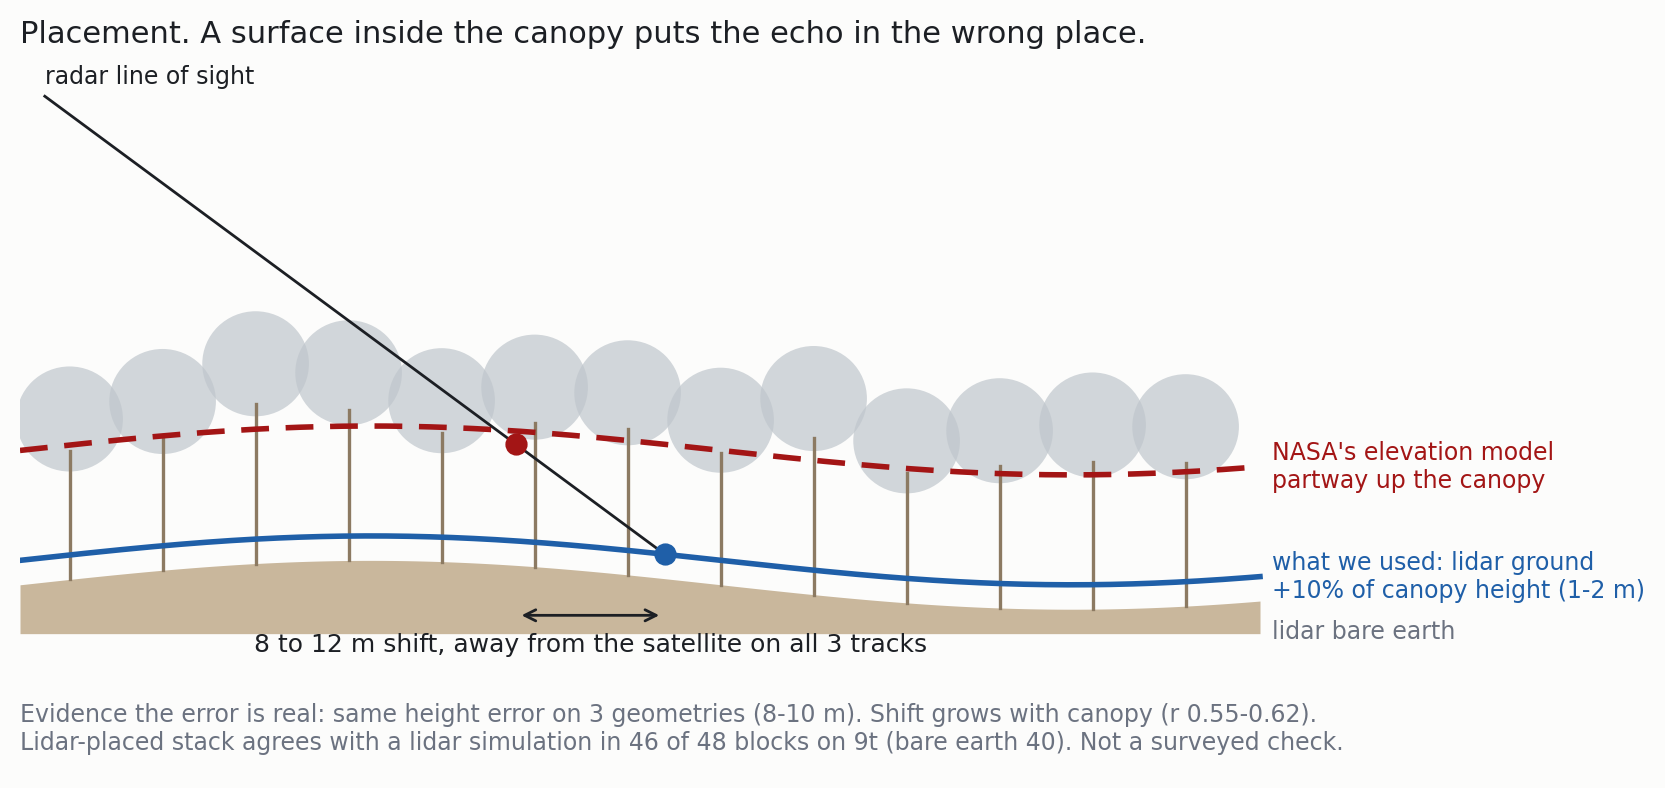
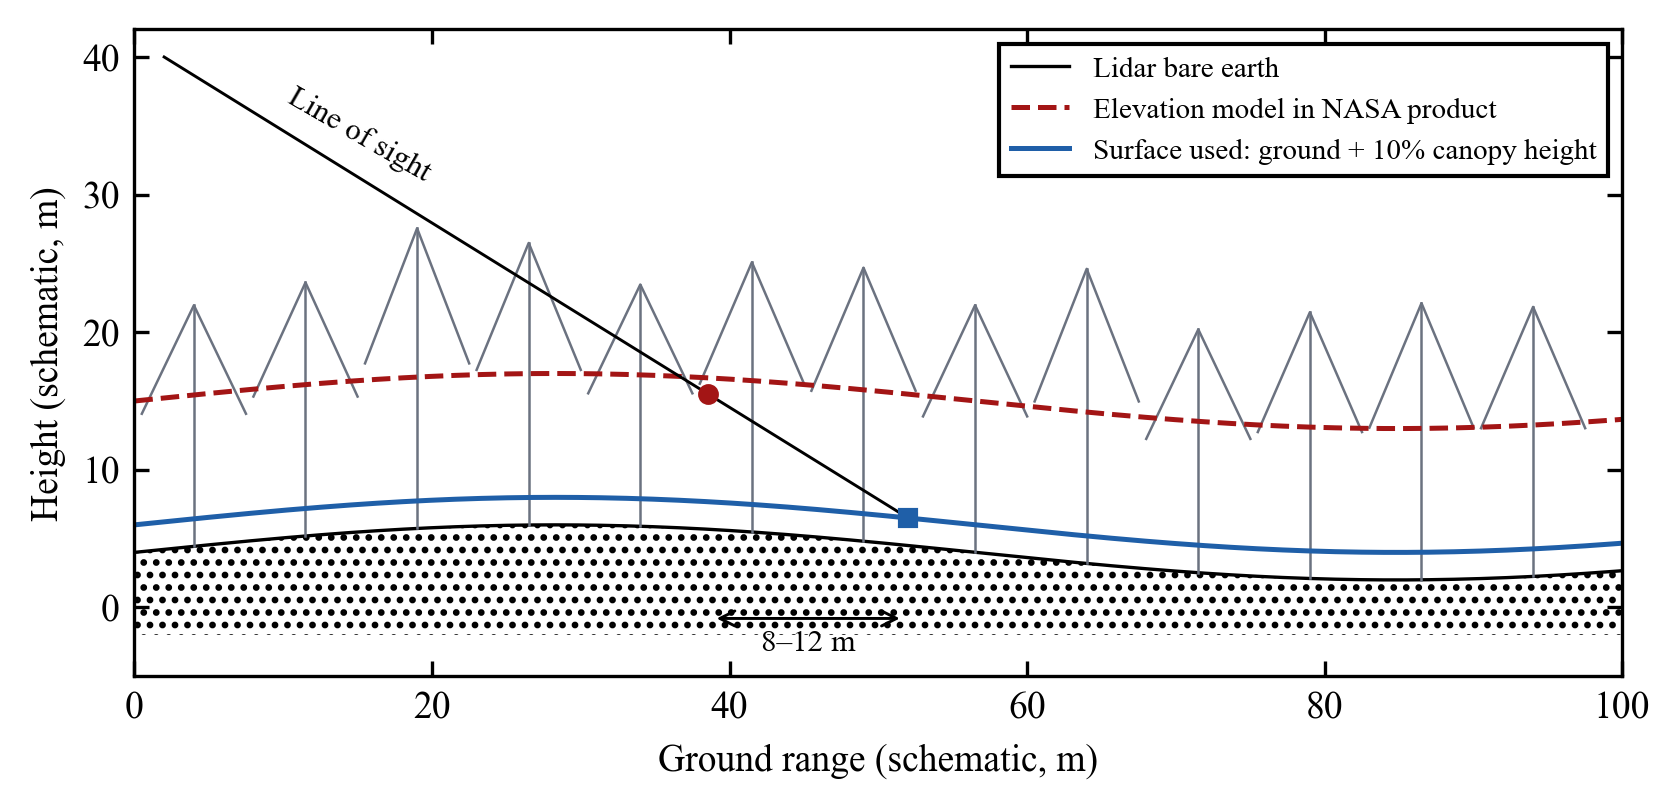
nisar: process figures restyled formal; ladder stages corrected

diff --git a/nisar/code/s7_analysis/_nisar_process_figures.py b/nisar/code/s7_analysis/_nisar_process_figures.py
@@ -1,246 +1,183 @@
-"""Figures for nisar/docs/NISAR_PROCESS_AND_OUTCOMES.md (2026-11-18).
+"""Figures for nisar/docs/NISAR_PROCESS_AND_OUTCOMES.md (2026-11-18; restyled formal the same day).
 
-The style is plain and editorial. No flowchart boxes. Each figure shows one idea from the doc.
-  1 nisar_dates_on_hand.png       every NISAR pass per track and area. Empty passes, the spring gap and beta/provisional
-  2 nisar_excess_number_line.png  how the +0.25 dB pit excess is built, on one dB line
-  3 nisar_ps_selection_plane.png  persistent-scatterer selection (step 1) as a region of steadiness x brightness
-  4 nisar_position_cross_section.png  why NASA's placement was 8-12 m off under canopy, and what we used
-  5 nisar_evidence_ladder.png     how far each marker idea climbed before it stopped
-  6 nisar_band_count_waffle.png   the 346 bands, one square each, by product
+Journal style: serif type, boxed axes, inward ticks, real legends, no titles. Captions live in the doc.
+  1 nisar_dates_on_hand.png          every NISAR pass per track and tile, with beta/provisional and the spring gap
+  2 nisar_excess_number_line.png     pit and control-spot contrast with their rings, fall HH, and the excess
+  3 nisar_ps_selection_plane.png     persistent-scatterer selection region (step 1), steadiness x brightness
+  4 nisar_position_cross_section.png schematic of the canopy placement error and the surface used instead
+  5 nisar_evidence_ladder.png        evidence stage reached by each marker idea
+  6 nisar_band_count_waffle.png      the 346 bands by product and family (now a bar chart; name kept)
 
 Dates come from the window index CSVs. Every other number is quoted from the process doc, sections 2-7.
-Palette: #1F5FA8 blue, #D97706 orange, #A31515 dark red; greys are context only, never a category.
-Validator (dataviz validate_palette.js, light, --pairs all) on the three colours: the repo's lost/found
-palette, worst pair dE 21.1 deutan, 22.6 normal (CLAUDE.md). Grey #6B7280 fails the chroma floor, so it is
-used only for neutral context and always with a direct label.
+Palette: #1F5FA8 blue, #D97706 orange, #A31515 dark red, the repo's lost/found palette. Validator
+(dataviz validate_palette.js, light, --pairs all): worst pair dE 21.1 deutan, 22.6 normal (CLAUDE.md).
+Greys are neutral context only and are always labelled. Every coloured category also differs in marker shape.
 
 Writes nisar/docs/figures/<name>.png
   python nisar/code/s7_analysis/_nisar_process_figures.py
 """
 from pathlib import Path
 
+import matplotlib.dates as mdates
 import matplotlib.pyplot as plt
 import numpy as np
 import pandas as pd
-from matplotlib.patches import Polygon, Rectangle
+from matplotlib.lines import Line2D
+from matplotlib.patches import Patch, Rectangle
 
 ROOT = Path(__file__).resolve().parents[3]
 OUT = ROOT / "nisar" / "docs" / "figures"
 BLUE, ORANGE, RED = "#1F5FA8", "#D97706", "#A31515"
-INK, MUTED, FAINT, PAPER = "#1C1F24", "#6B7280", "#D9DCE0", "#FCFCFB"
-plt.rcParams.update({"font.family": "DejaVu Sans", "font.size": 10, "text.color": INK, "axes.edgecolor": MUTED,
-                     "axes.labelcolor": INK, "xtick.color": MUTED, "ytick.color": MUTED,
-                     "figure.facecolor": PAPER, "axes.facecolor": PAPER, "savefig.facecolor": PAPER})
-
-
-def bare(ax, keep=()):
-    for s in ("top", "right", "left", "bottom"):
-        ax.spines[s].set_visible(s in keep)
+K, GREY, LIGHT = "black", "#6B7280", "#E5E7EB"
+plt.rcParams.update({"font.family": "serif", "font.serif": ["Times New Roman", "DejaVu Serif"], "font.size": 9,
+                     "mathtext.fontset": "stix", "axes.linewidth": 0.8, "axes.edgecolor": K, "axes.labelcolor": K,
+                     "xtick.direction": "in", "ytick.direction": "in", "xtick.top": True, "ytick.right": True,
+                     "xtick.color": K, "ytick.color": K, "legend.frameon": True, "legend.edgecolor": K,
+                     "legend.fancybox": False, "legend.framealpha": 1, "figure.facecolor": "white",
+                     "axes.facecolor": "white", "savefig.facecolor": "white"})
 
 
 def save(fig, name):
     OUT.mkdir(parents=True, exist_ok=True)
-    fig.savefig(OUT / name, dpi=200, bbox_inches="tight")
+    fig.savefig(OUT / name, dpi=300, bbox_inches="tight")
     plt.close(fig)
     print(OUT / name)
 
 
 def fig_dates():
-    rows = []
-    for area in ("9t", "613590"):
-        d = pd.read_csv(ROOT / "nisar" / "derived" / area / "nisar_gslc_5m" / f"nisar_gslc_window_index_{area}_5m.csv")
-        d["area"] = area
-        rows.append(d)
-    d = pd.concat(rows)
+    d = pd.concat([pd.read_csv(ROOT / "nisar" / "derived" / a / "nisar_gslc_5m" / f"nisar_gslc_window_index_{a}_5m.csv")
+                   .assign(area=a) for a in ("9t", "613590")])
     d["t"] = pd.to_datetime(d.date)
-    fig, ax = plt.subplots(figsize=(11, 4.2))
     lanes = [("9t", 26), ("9t", 90), ("9t", 162), ("613590", 26), ("613590", 90), ("613590", 162)]
-    gap0, gap1 = pd.Timestamp("2026-01-21"), pd.Timestamp("2026-06-19")
-    ax.axvspan(gap0, gap1, color=FAINT, alpha=0.45, lw=0, hatch="////", ec="#B8BEC6")
-    ax.text(gap0 + (gap1 - gap0) / 2, 6.35, "spring gap\nrecorded, not yet released\nover our frames",
-            ha="center", va="bottom", fontsize=8.5, color=MUTED)
+    fig, ax = plt.subplots(figsize=(7.2, 3.0))
+    ax.axvspan(pd.Timestamp("2026-01-21"), pd.Timestamp("2026-06-19"), facecolor="none", edgecolor=GREY,
+               hatch="///", lw=0, alpha=0.5)
+    labels = []
     for i, (area, trk) in enumerate(lanes):
         y = len(lanes) - i
-        ax.hlines(y, pd.Timestamp("2025-10-15"), pd.Timestamp("2026-10-31"), color=FAINT, lw=0.8)
         s = d[(d.area == area) & (d.track == trk)]
-        ok = s[s.valid_fraction >= 0.5]
-        bad = s[s.valid_fraction < 0.5]
-        for c, col in (("beta", BLUE), ("provisional", ORANGE)):
-            k = ok[ok.collection == c]
-            ax.vlines(k.t, y - 0.32, y + 0.32, color=col, lw=2.4)
-        ax.scatter(bad.t, [y] * len(bad), marker="x", s=22, color=MUTED, lw=1)
-        ax.text(pd.Timestamp("2025-10-08"), y, f"{area}  t{trk:03d}", ha="right", va="center", fontsize=9)
-        ax.text(pd.Timestamp("2026-11-06"), y, f"{len(ok)}", ha="left", va="center", fontsize=10, weight="bold")
-    ax.axhline(3.5, color=MUTED, lw=0.6)
-    ax.text(pd.Timestamp("2026-11-06"), 6.75, "usable", fontsize=8, color=MUTED)
-    ax.set_ylim(0.4, 7.4)
-    ax.set_yticks([])
-    bare(ax, keep=("bottom",))
-    ax.xaxis.set_major_formatter(plt.matplotlib.dates.DateFormatter("%b\n%Y"))
-    ax.text(pd.Timestamp("2025-10-20"), 7.25, "▍beta (not fully calibrated)", color=BLUE, fontsize=9)
-    ax.text(pd.Timestamp("2026-07-20"), 7.25, "▍provisional", color=ORANGE, fontsize=9)
-    ax.text(pd.Timestamp("2026-09-20"), 7.25, "× window empty", color=MUTED, fontsize=9)
-    ax.set_title("Every NISAR pass over the two tiles. Season and processing level move together.",
-                 loc="left", fontsize=11, pad=22)
+        ok, bad = s[s.valid_fraction >= 0.5], s[s.valid_fraction < 0.5]
+        ax.scatter(ok[ok.collection == "beta"].t, [y] * (ok.collection == "beta").sum(), marker="o", s=18, c=BLUE)
+        ax.scatter(ok[ok.collection == "provisional"].t, [y] * (ok.collection == "provisional").sum(), marker="s",
+                   s=16, c=ORANGE)
+        ax.scatter(bad.t, [y] * len(bad), marker="x", s=14, c=GREY, lw=0.8)
+        labels.append(f"{area}, track {trk} (n = {len(ok)})")
+    ax.axhline(3.5, color=K, lw=0.5)
+    ax.set_yticks(range(len(lanes), 0, -1), labels)
+    ax.set_ylim(0.4, len(lanes) + 0.6)
+    ax.set_xlim(pd.Timestamp("2025-10-15"), pd.Timestamp("2026-10-31"))
+    ax.xaxis.set_major_locator(mdates.MonthLocator(bymonth=range(1, 13, 2)))
+    ax.xaxis.set_major_formatter(mdates.DateFormatter("%b %Y"))
+    ax.set_xlabel("Acquisition date")
+    ax.legend(handles=[Line2D([], [], marker="o", ls="", c=BLUE, label="Beta, valid"),
+                       Line2D([], [], marker="s", ls="", c=ORANGE, label="Provisional, valid"),
+                       Line2D([], [], marker="x", ls="", c=GREY, label="No valid pixels in window"),
+                       Patch(facecolor="none", edgecolor=GREY, hatch="///", label="Not yet released (spring 2026)")],
+              loc="upper center", bbox_to_anchor=(0.5, 1.2), ncol=4, fontsize=7.5, handletextpad=0.3, columnspacing=1)
     save(fig, "nisar_dates_on_hand.png")
 
 
 def fig_excess():
-    fig, ax = plt.subplots(figsize=(10, 3.3))
-    ax.axhline(0, color=INK, lw=1)
-    for v in np.arange(-0.5, 0.31, 0.1):
-        ax.vlines(v, -0.04, 0.04, color=INK, lw=0.8)
-        ax.text(v, -0.13, f"{v:+.1f}" if abs(v) > 1e-9 else "0", ha="center", fontsize=8.5, color=MUTED)
-    ax.text(0.33, -0.13, "dB, fall HH, contrast with own ring", fontsize=8.5, color=MUTED, va="center")
-    ax.plot(-0.12, 0, "o", ms=11, color=BLUE, mec=PAPER, mew=2, zorder=3)
-    ax.plot(-0.39, 0, "s", ms=11, color=ORANGE, mec=PAPER, mew=2, zorder=3)
-    ax.text(-0.12, 0.17, "pits\n−0.12", ha="center", fontsize=9.5, color=INK)
-    ax.text(-0.39, 0.17, "control spots\n−0.39", ha="center", fontsize=9.5, color=INK)
-    ax.annotate("", xy=(-0.12, -0.42), xytext=(-0.39, -0.42), arrowprops=dict(arrowstyle="<->", color=INK, lw=1.2))
-    ax.text(-0.255, -0.36, "excess +0.25 dB (p 0.0002)", ha="center", fontsize=10, weight="bold")
-    ax.plot([-0.29, 0.04], [-0.55, -0.55], color=BLUE, lw=5, alpha=0.35, solid_capstyle="butt")
-    ax.vlines([-0.29, 0.04], -0.59, -0.51, color=BLUE, lw=1)
-    ax.text(0.06, -0.55, "where the pits could sit, given the 95% interval\nof the excess (0.10 to 0.43 dB above control spots)",
-            va="center", fontsize=8.5, color=INK)
-    ax.text(-0.52, 0.55, "Most of the excess is control spots being dark, not pits standing out.",
-            fontsize=11, ha="left")
-    ax.set_xlim(-0.55, 0.62)
-    ax.set_ylim(-0.7, 0.68)
-    ax.axis("off")
+    fig, ax = plt.subplots(figsize=(5.0, 2.0))
+    ax.axvline(0, color=GREY, lw=0.6, ls="--")
+    ax.plot(-0.39, 1, "s", ms=6, c=ORANGE)
+    ax.plot(-0.12, 2, "o", ms=6, c=BLUE)
+    ax.errorbar(-0.39 + 0.25, 2, xerr=[[0.25 - 0.10], [0.43 - 0.25]], fmt="none", ecolor=K, elinewidth=0.8, capsize=3)
+    ax.annotate("", xy=(-0.12, 1.5), xytext=(-0.39, 1.5), arrowprops=dict(arrowstyle="<->", lw=0.8))
+    ax.text(-0.255, 1.58, "excess +0.25 dB, $p$ = 0.0002", ha="center", va="bottom", fontsize=8)
+    ax.set_yticks([1, 2], ["Control spots", "Pits (n = 506)"])
+    ax.set_ylim(0.5, 2.6)
+    ax.set_xlim(-0.6, 0.2)
+    ax.set_xlabel("Feature minus ring, fall HH (dB)")
     save(fig, "nisar_excess_number_line.png")
 
 
 def fig_ps():
-    fig, ax = plt.subplots(figsize=(8, 5.2))
-    ax.add_patch(Rectangle((0, 6), 0.25, 16, color=BLUE, alpha=0.12, lw=0))
-    ax.plot([0.25, 0.25], [6, 22], color=BLUE, lw=1.5)
-    ax.plot([0, 0.25], [6, 6], color=BLUE, lw=1.5)
-    ax.text(0.012, 21, "selected\npersistent scatterers", color=BLUE, fontsize=9.5, va="top", weight="bold")
-    ax.text(0.012, 9.0, "0.004 to 0.03% of pixels\nqualify", color=INK, fontsize=8.5, va="top")
-    ax.axvspan(0.44, 0.58, color=FAINT, alpha=0.6, lw=0)
-    ax.text(0.51, 19, "forest\nnear 0.5", ha="center", fontsize=9, color=MUTED)
-    ax.axvline(0.53, color=MUTED, lw=0.8, ls=(0, (2, 2)))
-    ax.text(0.535, 1.2, "pure speckle 0.53", fontsize=8, color=MUTED, rotation=90, va="bottom")
-    ax.plot(0.09, 17.7, marker="*", ms=17, color=ORANGE, mec=PAPER, mew=1.5, zorder=4)
-    ax.text(0.105, 18.3, "the building, 2026-11-13\nall 3 tracks, D_A 0.09, +17.7 dB", fontsize=8.5)
-    ax.text(0.27, 10.5, "what a well must do:\nlight up a 5 m pixel\nalso holding trees and ground", fontsize=8.5,
-            color=INK)
-    ax.text(0.27, 3.6, "Wells within 15 m of a selected pixel\n9t 1 to 2%  ·  control spots 0.3 to 1%\nWarren 3.9%  ·  random 5.2%",
-            fontsize=8.5, color=INK)
+    fig, ax = plt.subplots(figsize=(4.6, 3.4))
+    ax.add_patch(Rectangle((0, 6), 0.25, 18, facecolor=BLUE, alpha=0.10, edgecolor=BLUE, lw=1))
+    ax.text(0.01, 22.5, "PS selection\n$D_A$ < 0.25, ≥ 6 dB", fontsize=7.5, va="top", color=K)
+    ax.axvspan(0.44, 0.58, color=LIGHT, lw=0)
+    ax.text(0.51, 22.5, "Forest", ha="center", va="top", fontsize=7.5)
+    ax.axvline(0.53, color=GREY, lw=0.8, ls=":")
+    ax.text(0.537, 1, "Speckle limit 0.53", rotation=90, fontsize=7, va="bottom", color=GREY)
+    ax.plot(0.09, 17.7, "^", ms=7, c=ORANGE, label="Building (all 3 tracks)")
+    ax.legend(loc="center right", fontsize=7.5)
     ax.set_xlim(0, 0.62)
-    ax.set_ylim(0, 22)
-    ax.set_xlabel("steadiness D_A  (spread of brightness over dates / mean)   ← steadier")
-    ax.set_ylabel("brightness above 250 m median (dB)")
-    bare(ax, keep=("left", "bottom"))
-    ax.set_title("Persistent-scatterer selection is a corner of this plane. Wells rarely reach it.",
-                 loc="left", fontsize=11)
+    ax.set_ylim(0, 24)
+    ax.set_xlabel("Amplitude dispersion $D_A$ = $\\sigma_A / \\mu_A$")
+    ax.set_ylabel("Brightness above 250 m median (dB)")
     save(fig, "nisar_ps_selection_plane.png")
 
 
 def fig_cross_section():
-    fig, ax = plt.subplots(figsize=(10, 4.6))
+    fig, ax = plt.subplots(figsize=(6.4, 2.8))
     x = np.linspace(0, 100, 400)
-    ground = 4 + 2 * np.sin(x / 18)
-    ax.fill_between(x, 0, ground, color="#C9B79C", lw=0)
+    g = 4 + 2 * np.sin(x / 18)
+    gf = lambda v: 4 + 2 * np.sin(v / 18)
+    ax.fill_between(x, -2, g, facecolor="none", edgecolor=K, hatch="....", lw=0)
+    ax.plot(x, g, c=K, lw=0.8, label="Lidar bare earth")
     rng = np.random.default_rng(3)
     for cx in np.arange(4, 100, 7.5):
         h = rng.uniform(17, 23)
-        g = 4 + 2 * np.sin(cx / 18)
-        ax.plot([cx, cx], [g, g + h * 0.6], color="#8C7A62", lw=1.2)
-        ax.add_patch(plt.Circle((cx, g + h * 0.75), 4.3, color="#BFC6CC", alpha=0.7, lw=0))
-    ax.plot(x, ground + 11, color=RED, lw=2, ls=(0, (5, 3)))
-    ax.text(101, ground[-1] + 11, "NASA's elevation model\npartway up the canopy", color=RED, fontsize=8.5, va="center")
-    ax.plot(x, ground + 0.1 * 20, color=BLUE, lw=2)
-    ax.text(101, ground[-1] + 2, "what we used: lidar ground\n+10% of canopy height (1-2 m)", color=BLUE,
-            fontsize=8.5, va="center")
-    ax.text(101, ground[-1] - 2.5, "lidar bare earth", color=MUTED, fontsize=8.5, va="center")
-    sx, sy = 2, 44
-    px = 52
-    gy = 4 + 2 * np.sin(px / 18)
-    t = (gy + 11 - sy) / (gy + 2 - sy)
-    hx = sx + (px - sx) * t
-    ax.plot([sx, px], [sy, gy + 2], color=INK, lw=1)
-    ax.text(sx, sy + 1, "radar line of sight", fontsize=8.5)
-    ax.plot(hx, gy + 11, "o", color=RED, ms=7)
-    ax.plot(px, gy + 2, "o", color=BLUE, ms=7)
-    ax.annotate("", xy=(px, gy - 3), xytext=(hx, gy - 3), arrowprops=dict(arrowstyle="<->", color=INK))
-    ax.text((px + hx) / 2, gy - 6, "8 to 12 m shift, away from the satellite on all 3 tracks", ha="center", fontsize=9)
-    ax.text(0, -9.5, "Evidence the error is real: same height error on 3 geometries (8-10 m). Shift grows with canopy (r 0.55-0.62).\n"
-            "Lidar-placed stack agrees with a lidar simulation in 46 of 48 blocks on 9t (bare earth 40). Not a surveyed check.",
-            fontsize=8.5, color=MUTED)
-    ax.set_xlim(0, 125)
-    ax.set_ylim(-11, 47)
-    ax.set_aspect("auto")
-    ax.axis("off")
-    ax.set_title("Placement. A surface inside the canopy puts the echo in the wrong place.", loc="left", fontsize=11)
+        ax.plot([cx, cx], [gf(cx), gf(cx) + h], c=GREY, lw=0.6)
+        ax.plot(cx + np.array([-3.5, 0, 3.5]), gf(cx) + h * np.array([0.55, 1.0, 0.55]), c=GREY, lw=0.6)
+    ax.plot(x, g + 11, c=RED, lw=1.2, ls="--", label="Elevation model in NASA product")
+    ax.plot(x, g + 2, c=BLUE, lw=1.2, label="Surface used: ground + 10% canopy height")
+    sx, sy, px = 2, 40, 52
+    hx = sx + (px - sx) * (gf(px) + 11 - sy) / (gf(px) + 2 - sy)
+    ax.plot([sx, px], [sy, gf(px) + 2], c=K, lw=0.7)
+    ax.text(10, 31, "Line of sight", fontsize=7.5, rotation=-30)
+    ax.plot(hx, gf(px) + 11, "o", ms=4, c=RED)
+    ax.plot(px, gf(px) + 2, "s", ms=4, c=BLUE)
+    ax.annotate("", xy=(px, -0.8), xytext=(hx, -0.8), arrowprops=dict(arrowstyle="<->", lw=0.7))
+    ax.text((px + hx) / 2, -1.6, "8–12 m", ha="center", va="top", fontsize=7.5)
+    ax.set_xlim(0, 100)
+    ax.set_ylim(-5, 42)
+    ax.set_xlabel("Ground range (schematic, m)")
+    ax.set_ylabel("Height (schematic, m)")
+    ax.legend(loc="upper right", fontsize=7)
     save(fig, "nisar_position_cross_section.png")
 
 
 def fig_ladder():
-    rungs = ["measured", "survives\nposition fix", "beats control\nspots", "repeats across\nseasons/tracks",
-             "tied to wells,\nnot depressions"]
-    # how many rungs each idea cleared; the reason it stopped (doc sections 2, 5-8)
-    ideas = [("Pit brightness", 3, "lead. Small, control spots are dark. Season change not conclusive"),
-             ("Pad coherence loss", 3, "weaker lead. 169 vs 136.4 events. No winter excess"),
-             ("Pad brightness", 1, "early -0.3 dB vanished after the fix"),
-             ("Steel / persistent scatterers", 1, "wells hit at chance. Not rerun on lidar stack"),
-             ("Water in pits", 1, "wet and dry overlap. 23 pool pits match others"),
-             ("Motion", 1, "0 of 15 coherent wells after correction"),
-             ("Sentinel-1 C-band", 1, "no pit signal in coherence, motion or bright spots")]
-    fig, ax = plt.subplots(figsize=(12, 4.6))
-    X = 1.45  # rung spacing
-    for j, r in enumerate(rungs):
-        ax.text(j * X, len(ideas) + 0.15, r, ha="center", va="bottom", fontsize=8.5, color=MUTED)
-        ax.vlines(j * X, -0.5, len(ideas) - 0.5, color=FAINT, lw=0.8)
-    for i, (name, n, why) in enumerate(ideas):
+    stages = ["Measured", "Survives\nposition fix", "Exceeds\ncontrol spots", "Repeats across\nseasons", "Specific to\nwell sites"]
+    ideas = [("Pit brightness", 3), ("Pad coherence loss", 3), ("Pad brightness", 1), ("Steel (PS selection)", 2),
+             ("Water in pits", 2), ("Motion", 2), ("Sentinel-1 C-band", 2)]  # these failed against controls; pad brightness vanished after the fix
+    fig, ax = plt.subplots(figsize=(5.6, 3.0))
+    for i, (name, n) in enumerate(ideas):
         y = len(ideas) - 1 - i
-        col = BLUE if n >= 3 else MUTED
-        ax.plot(np.arange(n) * X, [y] * n, "-", color=col, lw=2.5, solid_capstyle="round")
-        ax.scatter(np.arange(n) * X, [y] * n, s=46, color=col, zorder=3, edgecolor=PAPER, lw=1.5)
-        if n < len(rungs):
-            ax.scatter([n * X], [y], s=46, facecolor=PAPER, edgecolor=RED, lw=1.5, marker="X", zorder=3)
-        ax.text(-0.35, y, name, ha="right", va="center", fontsize=9.5, weight="bold" if n >= 3 else "normal")
-        ax.text((len(rungs) - 1) * X + 0.5, y, why, ha="left", va="center", fontsize=8.5)
-    ax.set_xlim(-2.6, 12.6)
-    ax.set_ylim(-0.7, len(ideas) + 1.0)
-    ax.axis("off")
-    ax.text(-2.6, len(ideas) + 0.95, "How far each marker idea got. ✕ marks where it stopped. No idea reached the last rung.",
-            fontsize=11)
+        ax.plot(range(n), [y] * n, "-o", c=BLUE, ms=5, lw=1)
+        ax.plot([n], [y], "x", c=RED, ms=6, mew=1.2)
+        ax.plot(range(n + 1, len(stages)), [y] * (len(stages) - n - 1), "o", mfc="none", mec=GREY, ms=5, ls="")
+    ax.set_yticks(range(len(ideas) - 1, -1, -1), [n for n, _ in ideas])
+    ax.set_xticks(range(len(stages)), stages, fontsize=7.5)
+    ax.set_xlim(-0.5, len(stages) - 0.5)
+    ax.set_ylim(-0.6, len(ideas) - 0.4)
+    ax.grid(axis="x", color=LIGHT, lw=0.6)
+    ax.set_axisbelow(True)
+    ax.legend(handles=[Line2D([], [], marker="o", c=BLUE, ms=5, lw=1, label="Passed"),
+                       Line2D([], [], marker="x", c=RED, ls="", ms=6, mew=1.2, label="Failed or inconclusive"),
+                       Line2D([], [], marker="o", mfc="none", mec=GREY, ls="", ms=5, label="Not reached")],
+              loc="upper center", bbox_to_anchor=(0.5, 1.15), ncol=3, fontsize=7.5)
     save(fig, "nisar_evidence_ladder.png")
 
 
 def fig_waffle():
-    prods = [("Spatial", 63), ("Coherence", 43), ("Temporal", 43), ("Amplitude trend and season", 42),
-             ("Amplitude statistics", 32), ("Rain and freeze", 22), ("Dual-pol", 21), ("Events", 15),
-             ("Sub-aperture", 15), ("Texture", 15), ("Geometry", 14), ("Line-of-sight motion", 12),
-             ("Height residual", 9)]
-    amp = {"Amplitude trend and season", "Amplitude statistics", "Dual-pol", "Texture", "Spatial", "Temporal"}
-    phase = {"Coherence", "Line-of-sight motion", "Height residual", "Events"}
-    fam = lambda nm: 0 if nm in amp else 1 if nm in phase else 2
-    prods = sorted(prods, key=lambda p: (fam(p[0]), -p[1]))
-    fig, ax = plt.subplots(figsize=(11, 4.4))
-    cols, k, y0 = 30, 0, 0
-    for name, n in prods:
-        col = BLUE if name in amp else ORANGE if name in phase else MUTED
-        start = k
-        for _ in range(n):
-            r, c = divmod(k, cols)
-            ax.add_patch(Rectangle((c, -r), 0.86, 0.86, color=col, lw=0))
-            k += 1
-        r0, c0 = divmod(start, cols)
-        ax.add_patch(Rectangle((cols + 0.8, -y0 * 0.82 + 0.1), 0.6, 0.6, color=col, lw=0))
-        ax.text(cols + 1.8, -y0 * 0.82 + 0.4, f"{n:>3}  {name}", fontsize=8.5, va="center", family="DejaVu Sans Mono")
-        y0 += 1
-    ax.text(0, 1.6, "▇ amplitude-based", color=BLUE, fontsize=9)
-    ax.text(7, 1.6, "▇ phase / coherence-based", color=ORANGE, fontsize=9)
-    ax.text(16.5, 1.6, "▇ other (weather, geometry, focusing)", color=MUTED, fontsize=9)
-    ax.text(0, -12.7, "346 bands, one square each. PCA on 9t finds about 100-130 real directions; the first holds only 6.9%.",
-            fontsize=9, color=MUTED)
-    ax.set_xlim(-0.5, cols + 14)
-    ax.set_ylim(-13.3, 2.6)
-    ax.set_aspect("equal")
-    ax.axis("off")
-    ax.set_title("The band count is arithmetic: 13 scripts, run once per track.", loc="left", fontsize=11)
+    prods = [("Spatial", 63, 0), ("Temporal", 43, 0), ("Amplitude trend and season", 42, 0), ("Amplitude statistics", 32, 0),
+             ("Dual-pol", 21, 0), ("Texture", 15, 0), ("Coherence", 43, 1), ("Events", 15, 1),
+             ("Line-of-sight motion", 12, 1), ("Height residual", 9, 1), ("Rain and freeze", 22, 2),
+             ("Sub-aperture", 15, 2), ("Geometry", 14, 2)]
+    cols, hatch = [BLUE, ORANGE, GREY], ["", "////", ".."]
+    fig, ax = plt.subplots(figsize=(4.8, 3.4))
+    y = np.arange(len(prods))[::-1]
+    for yi, (name, n, f) in zip(y, prods):
+        ax.barh(yi, n, color=cols[f], hatch=hatch[f], edgecolor="white", lw=0, height=0.7)
+        ax.text(n + 0.8, yi, str(n), va="center", fontsize=7.5)
+    ax.set_yticks(y, [p[0] for p in prods], fontsize=7.5)
+    ax.set_xlim(0, 72)
+    ax.set_xlabel("Number of bands (total 346)")
+    ax.legend(handles=[Patch(facecolor=c, hatch=h, edgecolor="white", label=l) for c, h, l in
+                       zip(cols, hatch, ["Amplitude", "Phase / coherence", "Other"])], loc="lower right", fontsize=7.5)
     save(fig, "nisar_band_count_waffle.png")
 
 
